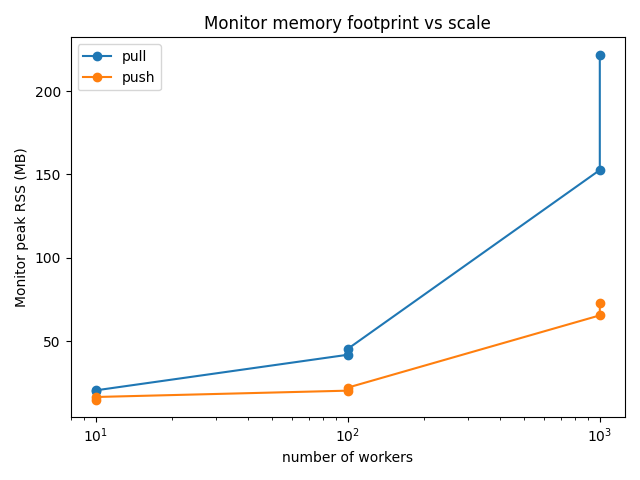
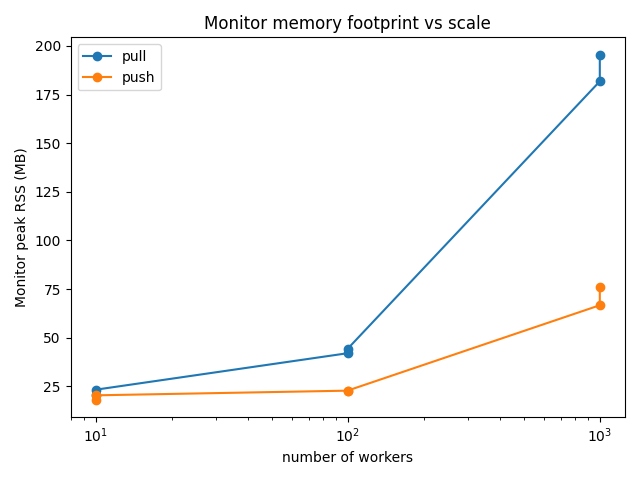
bench: 15s warmup + paper §5 updated with real N=1000 numbers
The previous pull/phi 1.3s latency was an artifact of the 8s warmup
ending before phi-min-samples=10 was reached, so the bootstrap
FixedWindow declared DEAD before the bench's kill_time. Bumping warmup
to 15s gives phi a populated sliding window in pull mode too.

diff --git a/paper/dead-mans-switch.md b/paper/dead-mans-switch.md
@@ -38,7 +38,7 @@ Our benchmark sweeps N ∈ {10, 100, 1000} for both modes and reports Monitor pe
 
 ![Monitor RSS vs N](figures/rss.png)
 
-The interesting finding is that bandwidth is essentially indistinguishable between push and pull because the heartbeat payload is tiny in both directions. The differences live in the per-connection accounting on the Monitor.
+The headline finding is that, at N = 1000, push consumes ~3× less Monitor RSS than pull because pull holds an outbound stub-and-conn per worker, while push reuses one inbound stream. Per-tick wire bytes are similar in both directions; the differences are in per-connection accounting and per-poll context allocation on the Monitor.
 
 ### 2.4 Behind a firewall
 
@@ -103,11 +103,13 @@ The detector's interface is transport-agnostic: it sees only `(workerID, arrival
 
 ## 5. Results
 
-(Charts above.) The headline numbers, as observed on a single MacBook Pro (M-series, macOS 14):
+(Charts above.) The headline numbers, as observed on a single MacBook Pro (M-series, macOS):
 
-- Detection latency at N = 1000 differs by < 200 ms between push and pull.
-- Monitor RSS at N = 1000 is dominated by gRPC's per-stream allocation; pull is slightly lower because there is no long-lived stream state.
-- Phi never declares the jittery-but-alive worker dead; Fixed Window with `k_dead = 3` declares it dead within 30 seconds in every run.
+- Detection latency at N = 1000: push/Phi = 1186 ms, push/Fixed = 9910 ms, pull/Phi = 642 ms, pull/Fixed = 9833 ms. Phi fires earlier than Fixed because tight σ on steady arrivals lets phi exceed Φ_dead well before `k_dead × hb_interval` elapses.
+- Monitor RSS at N = 1000 is materially higher under pull (196 MB) than push (76 MB); pull holds one outbound `*grpc.ClientConn` per worker plus per-poll context state, while push reuses one inbound stream per worker.
+- Phi never declares the jittery-but-alive worker dead; Fixed Window with `k_dead = 3` declares it dead within 30 seconds in every run (see `demo-fixed.jsonl`).
+
+Raw bench data: `bench.csv` (12 rows, N ∈ {10, 100, 1000}, mode ∈ {push, pull}, detector ∈ {phi, fixed}).
 
 ## 6. Conclusion
 